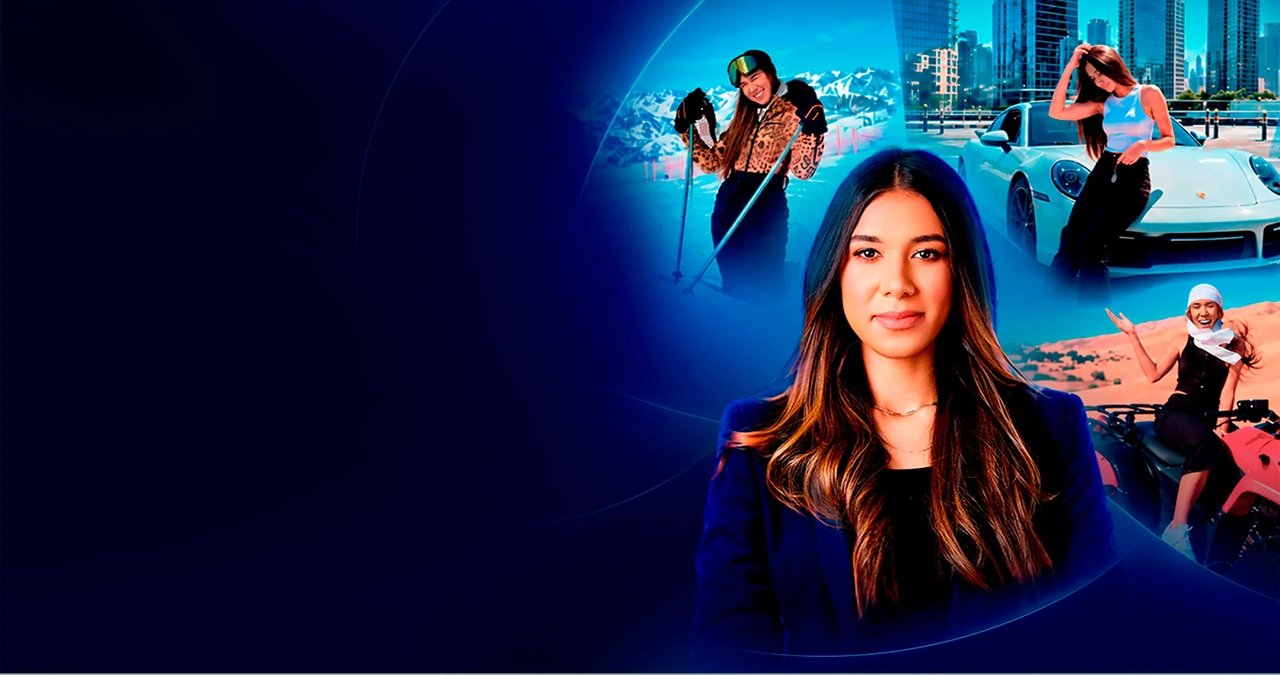
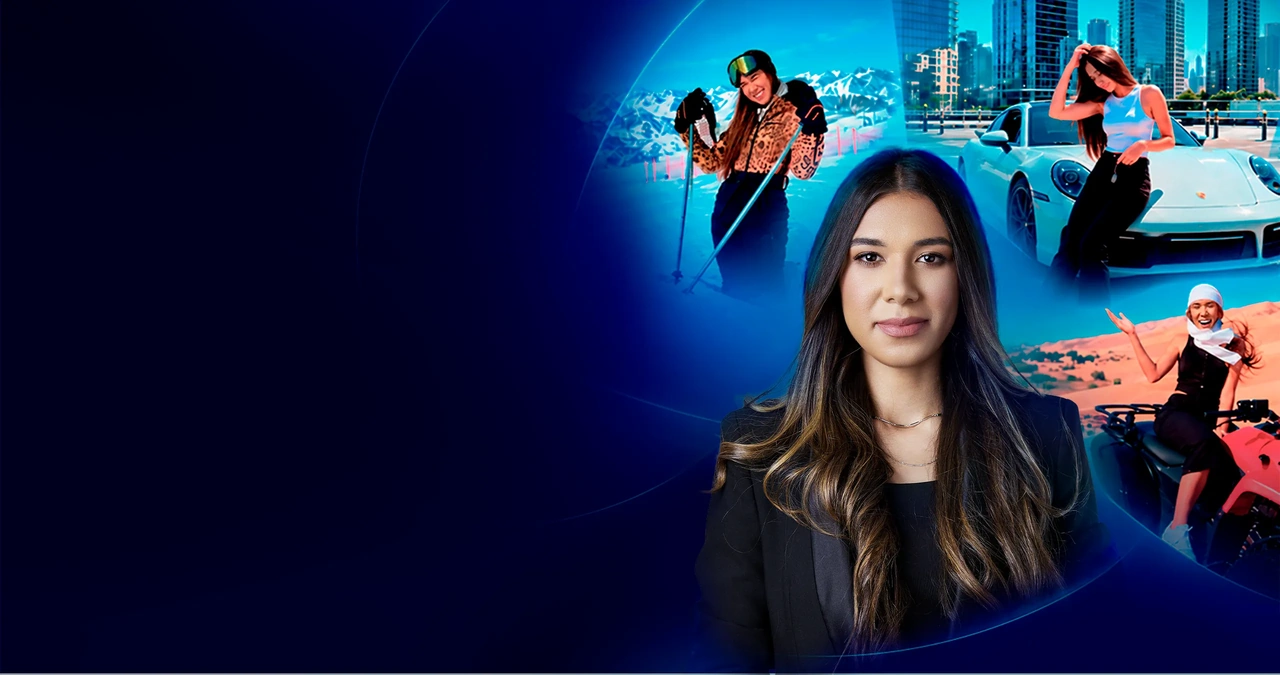
Atualizar variantes responsivas das novas imagens hero e renovar cache

Changed region(s): [[0.5312, 0.2489, 0.875, 1.0]]

diff --git a/public/index.html b/public/index.html
@@ -1,6 +1,6 @@
 <!doctype html>
 <html lang="pt-BR">
-<head><meta charset="utf-8"><meta name="viewport" content="width=device-width,initial-scale=1"><title>3 Liberdades | Thays Assis</title><meta name="description" content="Aula online e gratuita com Thays Assis. Dia 09 de novembro, às 20 horas."><link rel="preload" href="assets/hero.webp" as="image" fetchpriority="high" imagesrcset="assets/hero-1280.webp 1280w, assets/hero.webp 2560w" imagesizes="(min-width:1665px) 100vw, 1664px" media="(min-width:769px)"><link rel="preload" href="assets/hero-mobile.webp" as="image" fetchpriority="high" imagesrcset="assets/hero-mobile-480.webp 480w, assets/hero-mobile-768.webp 768w, assets/hero-mobile.webp 1440w" imagesizes="100vw" media="(max-width:768px)"><link rel="preload" href="assets/manrope-latin-400-normal.woff2" as="font" type="font/woff2" crossorigin><link rel="preload" href="assets/manrope-latin-700-normal.woff2" as="font" type="font/woff2" crossorigin><link rel="preload" href="assets/manrope-latin-800-normal.woff2" as="font" type="font/woff2" crossorigin><link rel="stylesheet" href="styles.css?v=20261021-dc910d"><script src="app.js?v=20261021-perf" defer></script><link rel="icon" type="image/svg+xml" sizes="any" href="assets/favicon.svg?v=2"><!-- Meta Pixel 3570010619958270 -->
+<head><meta charset="utf-8"><meta name="viewport" content="width=device-width,initial-scale=1"><title>3 Liberdades | Thays Assis</title><meta name="description" content="Aula online e gratuita com Thays Assis. Dia 09 de novembro, às 20 horas."><link rel="preload" href="assets/hero.webp?v=2436eb4" as="image" fetchpriority="high" imagesrcset="assets/hero-1280.webp?v=2436eb4 1280w, assets/hero.webp?v=2436eb4 2560w" imagesizes="(min-width:1665px) 100vw, 1664px" media="(min-width:769px)"><link rel="preload" href="assets/hero-mobile.webp?v=2436eb4" as="image" fetchpriority="high" imagesrcset="assets/hero-mobile-480.webp?v=2436eb4 480w, assets/hero-mobile-768.webp?v=2436eb4 768w, assets/hero-mobile.webp?v=2436eb4 1440w" imagesizes="100vw" media="(max-width:768px)"><link rel="preload" href="assets/manrope-latin-400-normal.woff2" as="font" type="font/woff2" crossorigin><link rel="preload" href="assets/manrope-latin-700-normal.woff2" as="font" type="font/woff2" crossorigin><link rel="preload" href="assets/manrope-latin-800-normal.woff2" as="font" type="font/woff2" crossorigin><link rel="stylesheet" href="styles.css?v=20261021-hero-2436eb4"><script src="app.js?v=20261021-perf" defer></script><link rel="icon" type="image/svg+xml" sizes="any" href="assets/favicon.svg?v=2"><!-- Meta Pixel 3570010619958270 -->
 <script>
 !function(f,b,e,v,n,t,s){if(f.fbq)return;n=f.fbq=function(){n.callMethod?n.callMethod.apply(n,arguments):n.queue.push(arguments)};if(!f._fbq)f._fbq=n;n.push=n;n.loaded=!0;n.version='2.0';n.queue=[];t=b.createElement(e);t.async=!0;t.src=v;s=b.getElementsByTagName(e)[0];s.parentNode.insertBefore(t,s)}(window,document,'script','https://connect.facebook.net/en_US/fbevents.js');
 fbq('init','3570010619958270');
@@ -9,7 +9,7 @@ fbq('track','PageView');
 <body>
 <main>
  <section class="hero" aria-labelledby="headline">
-  <div class="hero-art"><picture><source media="(max-width:768px)" srcset="assets/hero-mobile-480.webp 480w, assets/hero-mobile-768.webp 768w, assets/hero-mobile.webp 1440w" sizes="100vw" width="1440" height="1353"><img src="assets/hero.webp" srcset="assets/hero-1280.webp 1280w, assets/hero.webp 2560w" sizes="(min-width:1665px) 100vw, 1664px" width="2560" height="1350" alt="Thays Assis em uma composição com viagens, neve e Dubai" fetchpriority="high"></picture></div>
+  <div class="hero-art"><picture><source media="(max-width:768px)" srcset="assets/hero-mobile-480.webp?v=2436eb4 480w, assets/hero-mobile-768.webp?v=2436eb4 768w, assets/hero-mobile.webp?v=2436eb4 1440w" sizes="100vw" width="1440" height="1353"><img src="assets/hero.webp?v=2436eb4" srcset="assets/hero-1280.webp?v=2436eb4 1280w, assets/hero.webp?v=2436eb4 2560w" sizes="(min-width:1665px) 100vw, 1664px" width="2560" height="1350" alt="Thays Assis em uma composição com viagens, neve e Dubai" fetchpriority="high"></picture></div>
   <div class="hero-inner">
    <img class="logo" src="assets/logo.webp" srcset="assets/logo-400.webp 400w, assets/logo.webp 1600w" sizes="(max-width:768px) 280px, 308px" width="1600" height="417" alt="3 Liberdades: financeira, geográfica e tempo">
    <h1 id="headline">Vou te ensinar a fonte de<br class="desktop-break"> renda que <em>me aposentou<br class="desktop-break"> aos 26 anos</em>, começando<br class="desktop-break"> com apenas 100 reais.</h1>

diff --git a/public/styles.css b/public/styles.css
@@ -49,7 +49,7 @@
 
 /* Hero desfocada como ambientação do check-in. */
 .checkin{position:relative;isolation:isolate}
-.checkin::before{content:'';position:fixed;inset:-28px;z-index:-2;pointer-events:none;background-image:url('assets/hero.webp');background-size:cover;background-position:65% center;background-repeat:no-repeat;filter:blur(18px);opacity:.48}
+.checkin::before{content:'';position:fixed;inset:-28px;z-index:-2;pointer-events:none;background-image:url('assets/hero.webp?v=2436eb4');background-size:cover;background-position:65% center;background-repeat:no-repeat;filter:blur(18px);opacity:.48}
 .checkin::after{content:'';position:fixed;inset:0;z-index:-1;pointer-events:none;background:linear-gradient(180deg,rgba(0,1,27,.6),rgba(0,1,27,.83) 60%,rgba(0,1,27,.96))}
 @media(max-width:768px){.checkin::before{background-position:70% top;opacity:.4;filter:blur(14px)}}
 /* Seletor de país compacto com pesquisa acessível. */
